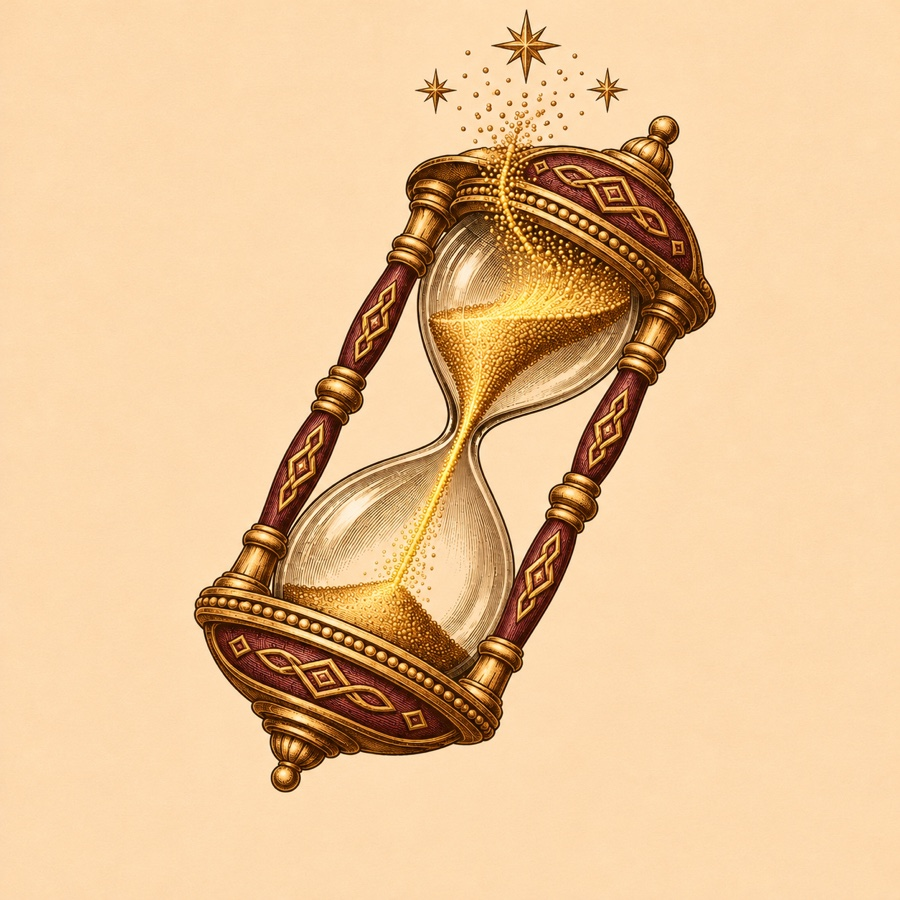
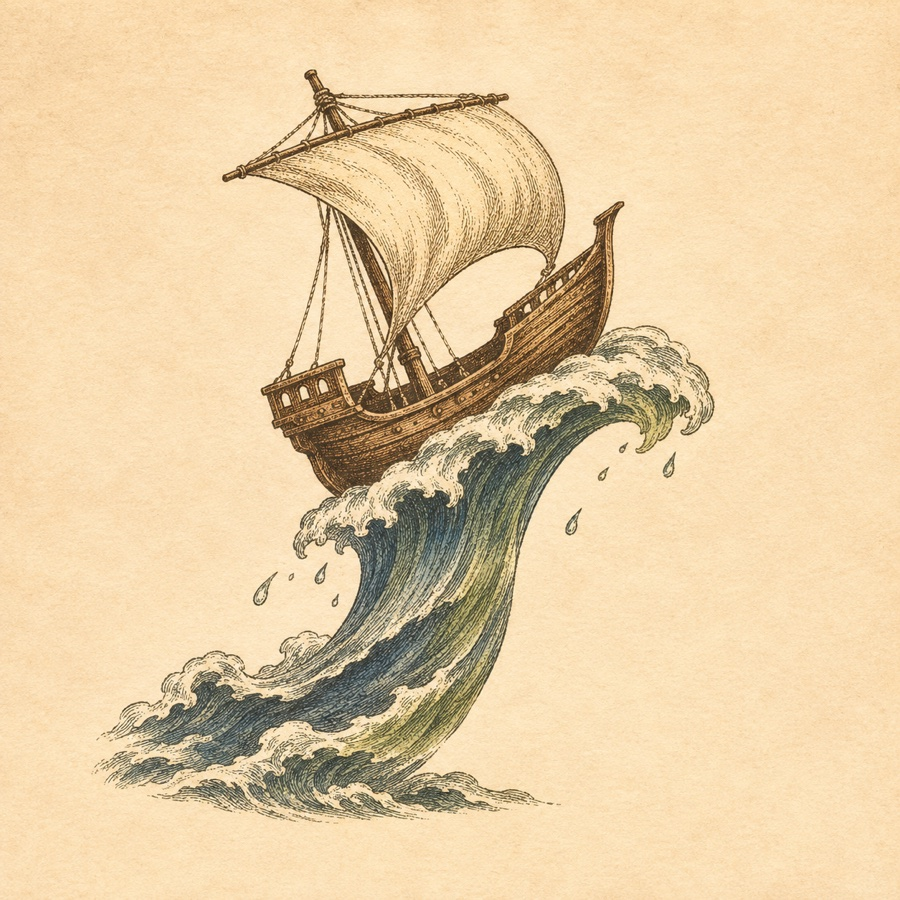
Add Mirror Coronation and update Fate Reversal artwork

Changed region(s): [[0.0933, 0.0, 0.8089, 0.9333], [0.6533, 0.0622, 0.6844, 0.1244]]

diff --git a/style.css b/style.css
@@ -204,7 +204,8 @@ progress::-moz-progress-bar{background:var(--wine)}
 .atlas-operator-zero{background-image:url("art/operator-zero.jpg")}
 .atlas-too-long{background-image:url("art/too-long.jpg")}
 .atlas-roll-call{background-image:url("art/roll-call.jpg")}
-.atlas-reverse{background-image:url("art/reverse.jpg?v=reversal-art-2");background-size:100% 100%;background-position:center}
+.atlas-reverse{background-image:url("art/reverse.jpg?v=reverse-ship");background-size:100% 100%;background-position:center}
+.atlas-mirror-coronation{background-image:url("art/mirror-coronation.jpg");background-size:100% 100%;background-position:center}
 .atlas-first-loser{background-image:url("art/first-loser.jpg?v=reversal-art-2");background-size:100% 100%;background-position:center}
 .tarot-frame{--plate:#f4e7cd;--ornament:#844a32;--plate-ink:#483024;position:relative;isolation:isolate;overflow:hidden;border:1px solid var(--ornament);border-radius:13px;padding:11px 11px 10px;background:var(--plate);color:var(--plate-ink)}
 .tarot-frame::after{content:"";position:absolute;inset:5px;z-index:1;border:1px solid var(--ornament);border-radius:8px;opacity:.66;pointer-events:none}

diff --git a/index.html b/index.html
@@ -7,10 +7,10 @@
   <meta name="description" content="五排戰績截圖、翻牌計分及每日排行榜。">
   <title>五排飲料局</title>
   <link rel="icon" href="mark.svg" type="image/svg+xml">
-  <link rel="stylesheet" href="style.css?v=reversal-art-2">
+  <link rel="stylesheet" href="style.css?v=mirror-coronation">
   <link rel="stylesheet" href="draw/astrolabe.css">
   <link rel="stylesheet" href="draw/ritual.css?v=reversal-title-font">
-  <script type="module" src="app.mjs?v=reversal-art"></script>
+  <script type="module" src="app.mjs?v=mirror-coronation"></script>
 </head>
 <body>
   <header class="top">
